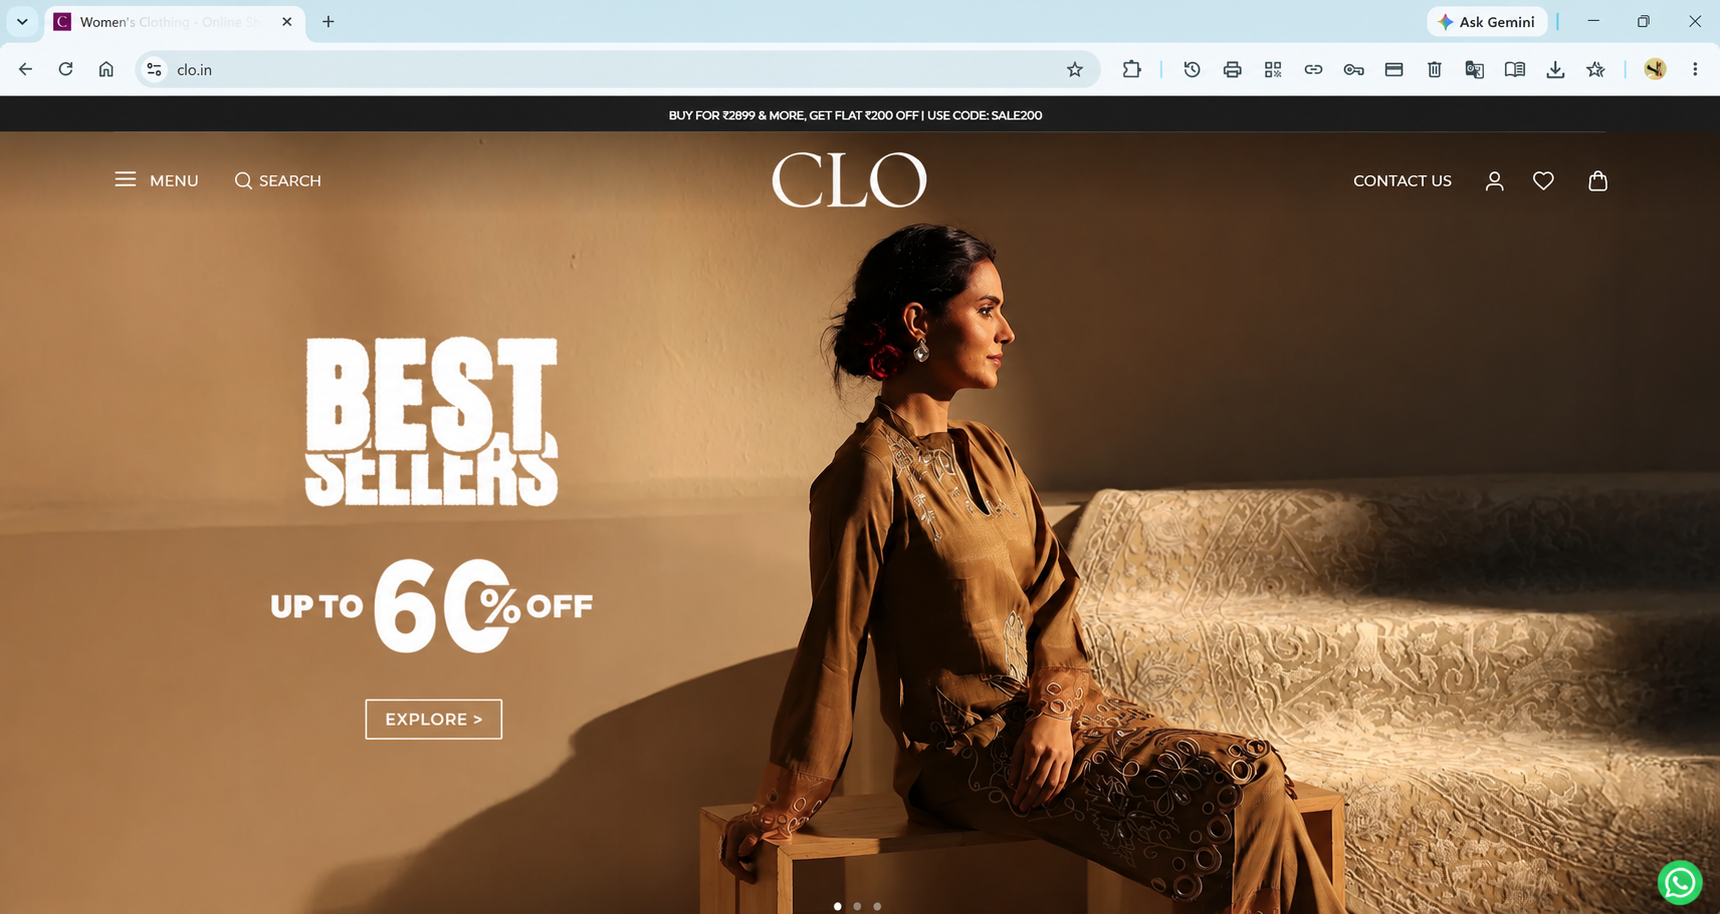
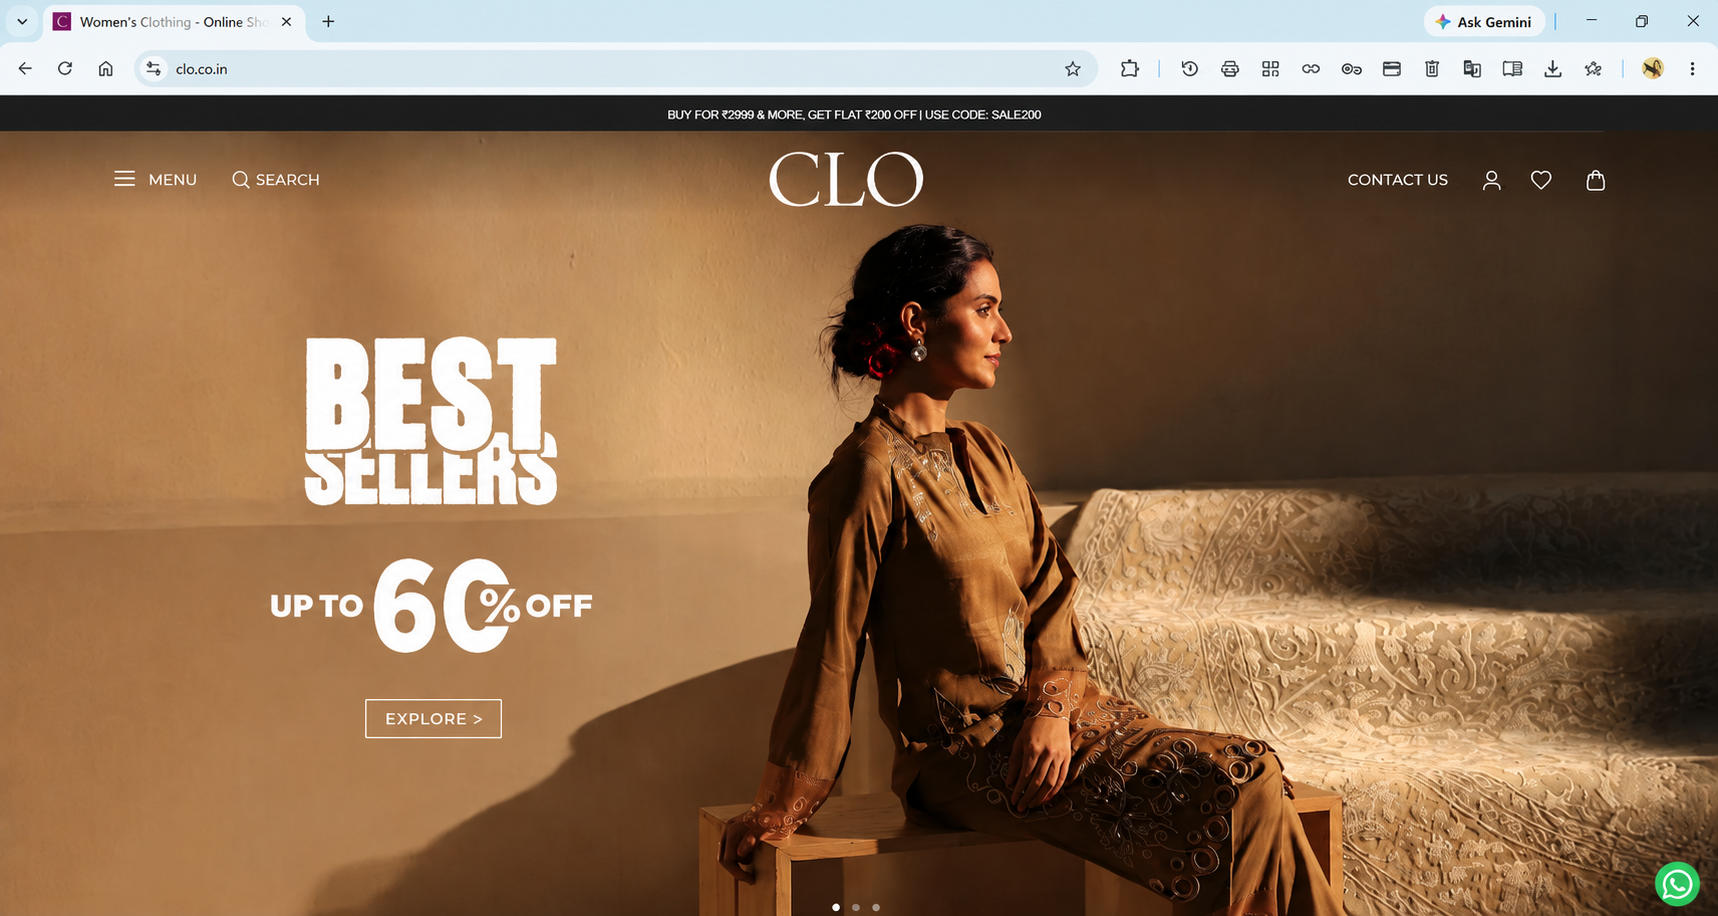
add Portfolio page with project showcase and stats section

diff --git a/src/pages/Portfolio.jsx b/src/pages/Portfolio.jsx
@@ -1,0 +1,175 @@
+import React from "react";
+import Navbar from "@/components/common/Navbar";
+import Footer from "@/components/common/Footer";
+import SEO from "@/components/common/SEO";
+import StatsSection from "@/components/common/StatsSection";
+import collegeDrishti from "@/assets/collegeDrishti.png";
+import onlinelpu from "@/assets/onlinelpu.png";
+import sholini from "@/assets/sholini.png";
+import manipaal from "@/assets/manipaal.png";
+import collegequestion from "@/assets/collegequestion.png";
+import clo from "@/assets/clo.png";
+
+const portfolios = [
+  {
+    id: 1,
+    title: "College Drishti",
+    image: collegeDrishti,
+
+    description:
+      "A smart college discovery platform that helps students explore, compare, and choose the right university with rankings, course details, and expert insights A smart college discovery platform that helps students explore, compare, and choose the right university with rankings, course details, and expert insights all in one place.",
+
+    website: "https://collegedrishti.com/",
+  },
+  {
+    id: 2,
+    title: " CLO Fashion Store",
+    image: clo,
+
+    description:
+      "A premium Indian clothing brand offering elegant ethnic and contemporary wear from silk co-ord sets to kurtas, crafted with quality fabrics and artistic prints.",
+
+    website: "https://clo.co.in/",
+  },
+
+  {
+    id: 3,
+    title: "Online LPU",
+    image: onlinelpu,
+    description:
+      "Online admission portal for LPU's distance & online degree programs MBA, MCA, BCA and more with UGC-approved, NAAC A++ accredited degrees starting at genuin Price.",
+
+    website: "https://onlinelpu.com/",
+  },
+  {
+    id: 4,
+    title: "Online MBA Study",
+    image: sholini,
+    description:
+      "Your guide to Shoolini University's online MBA & degree programs explore courses, fees, eligibility, and get free expert admission guidance for 2026.",
+
+    website: "https://onlinembastudy.com/",
+  },
+  {
+    id: 5,
+    title: "Online Manipal University Admission Portal",
+    image: manipaal,
+    description:
+      "Online admission platform for Manipal University's accredited degree programs explore MBA, MCA, and more with expert counseling and easy enrollment.",
+
+    website: "https://onlinembastudy.com/",
+  },
+  {
+    id: 6,
+    title: "College Question Online Degree Search Platform",
+    image: collegequestion,
+    description:
+      "India's go-to platform for discovering UGC-entitled online degree programs explore top universities, compare courses, and get expert guidance to find your perfect fit.",
+
+    website: "https://onlinembastudy.com/",
+  },
+];
+
+const Portfolio = () => {
+  return (
+    <div className="min-h-screen bg-background">
+      <SEO
+        title="Portfolio | Binazy"
+        description="Explore Binazy portfolio projects and digital solutions."
+        path="/portfolio"
+      />
+
+      <Navbar />
+
+      <main id="main-content" className="pt-16">
+        <section className="bg-[#0f2070] py-16 sm:py-20 lg:py-24">
+          <div className="mx-auto max-w-7xl px-4 text-white sm:px-6 lg:px-8">
+            <h1 className="mb-4 text-3xl font-bold leading-tight sm:text-5xl lg:text-6xl">
+              Our <span className="text-blue-400">Portfolio</span>
+            </h1>
+
+            <p className="max-w-3xl text-base leading-7 text-gray-200 sm:text-lg sm:leading-8">
+              Browse our portfolio of websites, mobile apps, and custom software
+              solutions built for startups, businesses, and enterprises
+              worldwide.
+            </p>
+          </div>
+        </section>
+
+        <section className="py-20 bg-slate-50">
+          <div className="max-w-7xl mx-auto px-6">
+            {/* Heading */}
+            <div className="text-center max-w-3xl mx-auto mb-14">
+              <h2 className="text-4xl md:text-5xl font-bold text-slate-900">
+                Real projects{" "}
+                <span className="text-blue-900">measurable results</span>
+              </h2>
+
+              <p className="mt-5 text-lg text-slate-600 leading-8">
+                See the challenges, solutions, and outcomes from products we
+                have built for clients and then start a similar project with our
+                team
+              </p>
+            </div>
+
+            {/* Cards */}
+            <div className="grid md:grid-cols-2 gap-8">
+              {portfolios.map((item) => (
+                <div
+                  key={item.id}
+                  className="bg-white/90 overflow-hidden border border-slate-200 ">
+                  <img
+                    src={item.image}
+                    alt={item.title}
+                    className="w-full h-72 object-cover"
+                  />
+
+                  <div className="p-7">
+                    <h3 className="text-3xl font-semibold text-blue-800 ">
+                      {item.title}
+                    </h3>
+
+                    <p className="mt-5 text-slate-600 leading-8">
+                      {item.description}
+                    </p>
+
+                    <div className="mt-8 flex gap-8">
+                      <a
+                        href={item.website}
+                        //for new tab open url
+                        target="_blank"
+                        rel="noopener noreferrer"
+                        className="font-medium text-blue-700 hover:text-blue-900 flex items-center gap-2">
+                        Visit site
+                        <svg
+                          xmlns="http://www.w3.org/2000/svg"
+                          className="w-5 h-5"
+                          fill="none"
+                          viewBox="0 0 24 24"
+                          stroke="currentColor"
+                          strokeWidth={2}>
+                          <path
+                            strokeLinecap="round"
+                            strokeLinejoin="round"
+                            d="M14 3h7v7m0-7L10 14m-4-7H3v14h14v-3"
+                          />
+                        </svg>
+                      </a>
+                    </div>
+                  </div>
+                </div>
+              ))}
+            </div>
+          </div>
+        </section>
+        <section>
+          <StatsSection />
+        </section>
+      </main>
+
+      <Footer />
+    </div>
+  );
+};
+
+export default Portfolio;

diff --git a/src/components/common/Navbar.jsx b/src/components/common/Navbar.jsx
@@ -40,7 +40,10 @@ const navLinks = [
   { label: "About", to: "/about" },
 ];
 
-const endLinks = [{ label: "Blog", to: "/blog" }];
+const endLinks = [
+  { label: "Portfolio", to: "/portfolio" },
+  { label: "Blog", to: "/blog" },
+];
 
 const dropdownOrder = ["services", "industries", "locations"];
 
@@ -105,9 +108,7 @@ const Navbar = () => {
             alt="Binazy Logo"
             className="w-10 h-10 rounded-full object-cover"
           />
-          <span className="text-lg font-semibold text-slate-900">
-            Binazy
-          </span>
+          <span className="text-lg font-semibold text-slate-900">Binazy</span>
         </Link>
 
         {/* Desktop Navigation */}
@@ -116,8 +117,7 @@ const Navbar = () => {
             <Link
               key={item.to}
               to={item.to}
-              className={desktopLinkClass(isActive(item.to))}
-            >
+              className={desktopLinkClass(isActive(item.to))}>
               {item.label}
             </Link>
           ))}
@@ -131,13 +131,11 @@ const Navbar = () => {
                 key={menuKey}
                 className="relative"
                 onMouseEnter={() => handleMouseEnter(menuKey)}
-                onMouseLeave={handleMouseLeave}
-              >
+                onMouseLeave={handleMouseLeave}>
                 <button
                   className={`${desktopLinkClass(
-                    isActive(menu.path)
-                  )} flex items-center gap-1`}
-                >
+                    isActive(menu.path),
+                  )} flex items-center gap-1`}>
                   {menu.label}
                   <ChevronDown
                     className={`w-4 h-4 transition ${
@@ -149,15 +147,11 @@ const Navbar = () => {
                 {isOpen && (
                   <div className="absolute top-full left-1/2 -translate-x-1/2 pt-4 z-50">
                     <div
-                      className={`${menu.desktopWidth} bg-white border border-slate-200 rounded-2xl p-2 shadow-2xl shadow-slate-950/15`}
-                    >
+                      className={`${menu.desktopWidth} bg-white border border-slate-200 rounded-2xl p-2 shadow-2xl shadow-slate-950/15`}>
                       <div
                         className={`space-y-1 ${
-                          menu.scrollable
-                            ? "max-h-[70vh] overflow-y-auto"
-                            : ""
-                        }`}
-                      >
+                          menu.scrollable ? "max-h-[70vh] overflow-y-auto" : ""
+                        }`}>
                         {menu.items.map((item) => (
                           <Link
                             key={item.id}
@@ -167,8 +161,7 @@ const Navbar = () => {
                               location.pathname === item.to
                                 ? "bg-brand-50 text-brand-700"
                                 : "text-slate-700 hover:bg-slate-50 hover:text-brand-700"
-                            }`}
-                          >
+                            }`}>
                             {item.title}
                           </Link>
                         ))}
@@ -184,8 +177,7 @@ const Navbar = () => {
             <Link
               key={item.to}
               to={item.to}
-              className={desktopLinkClass(isActive(item.to))}
-            >
+              className={desktopLinkClass(isActive(item.to))}>
               {item.label}
             </Link>
           ))}
@@ -194,8 +186,7 @@ const Navbar = () => {
         {/* Desktop Button */}
         <Link
           to="/contact-us"
-          className="hidden lg:inline-flex items-center justify-center h-11 px-5 rounded-xl bg-brand-600 text-white text-sm font-medium hover:bg-brand-700 transition"
-        >
+          className="hidden lg:inline-flex items-center justify-center h-11 px-5 rounded-xl bg-brand-600 text-white text-sm font-medium hover:bg-brand-700 transition">
           Connect With Us
         </Link>
 
@@ -203,8 +194,7 @@ const Navbar = () => {
         <button
           className="lg:hidden p-2 rounded-lg hover:bg-brand-50"
           onClick={() => setMobileOpen((prev) => !prev)}
-          aria-label={mobileOpen ? "Close menu" : "Open menu"}
-        >
+          aria-label={mobileOpen ? "Close menu" : "Open menu"}>
           {mobileOpen ? <X size={24} /> : <Menu size={24} />}
         </button>
       </div>
@@ -222,8 +212,7 @@ const Navbar = () => {
                   isActive(item.to)
                     ? "font-medium text-brand-700"
                     : "text-slate-700"
-                }`}
-              >
+                }`}>
                 {item.label}
               </Link>
             ))}
@@ -236,10 +225,7 @@ const Navbar = () => {
                 <div key={menuKey}>
                   <button
                     className="w-full flex items-center justify-between py-2 text-sm text-slate-700"
-                    onClick={() =>
-                      setMobileDropdown(isOpen ? null : menuKey)
-                    }
-                  >
+                    onClick={() => setMobileDropdown(isOpen ? null : menuKey)}>
                     {menu.label}
                     <ChevronDown
                       className={`w-4 h-4 transition ${
@@ -255,8 +241,7 @@ const Navbar = () => {
                           key={item.id}
                           to={item.to}
                           onClick={closeAllMenus}
-                          className="block py-1.5 text-sm text-slate-600"
-                        >
+                          className="block py-1.5 text-sm text-slate-600">
                           {item.title}
                         </Link>
                       ))}
@@ -269,8 +254,7 @@ const Navbar = () => {
             <Link
               to="/contact-us"
               onClick={closeAllMenus}
-              className="block py-2 text-sm font-medium text-brand-600"
-            >
+              className="block py-2 text-sm font-medium text-brand-600">
               Contact Us
             </Link>
           </div>

diff --git a/src/components/common/StatsSection.jsx b/src/components/common/StatsSection.jsx
@@ -20,23 +20,23 @@ const StatsSection = () => {
   ];
 
   return (
-    <section className="section-padding bg-brand-600">
+    <section className="bg-brand-600 py-10 sm:py-12 lg:py-14">
       <div className="section-container">
-        <div className="grid grid-cols-1 md:grid-cols-3 gap-4 sm:gap-6 lg:gap-12">
+        <div className="grid grid-cols-1 md:grid-cols-3 gap-3 sm:gap-4 lg:gap-6">
           {stats.map((item, index) => (
             <div
               key={index}
-              className="relative overflow-hidden rounded-2xl p-6 sm:p-8 lg:p-10 group">
+              className="relative overflow-hidden rounded-xl p-4 sm:p-5 lg:p-6 group">
               {/* Decorative Accent */}
 
               <div className="relative z-10">
-                <span className="text-6xl sm:text-7xl lg:text-9xl font-bold text-white/80 mb-4 sm:mb-6 block">
+                <span className="text-4xl sm:text-5xl lg:text-6xl font-bold text-white/80 mb-2 sm:mb-3 block">
                   {item.number}
                 </span>
-                <h4 className="text-xl lg:text-2xl font-bold text-white/90 mb-3 sm:mb-4 uppercase tracking-wider">
+                <h4 className="text-base sm:text-lg lg:text-xl font-bold text-white/90 mb-2 uppercase tracking-wide">
                   {item.label}
                 </h4>
-                <p className="text-white/90 text-base sm:text-lg lg:text-xl leading-relaxed">
+                <p className="text-white/90 text-sm sm:text-base leading-relaxed">
                   {item.desc}
                 </p>
               </div>

diff --git a/src/App.jsx b/src/App.jsx
@@ -10,6 +10,7 @@ import IndustryDetailsPage from "@/pages/industries/IndustryDetailsPage";
 import LocationDetailsPage from "@/pages/locations/LocationDetailPage";
 import BlogPage from "@/pages/blog/BlogPage";
 import BlogDetailsPage from "@/pages/blog/BlogDetailsPage";
+import Portfolio from "@/pages/Portfolio";
 import ScrollToTop from "@/components/ScrollToTop";
 import WhatsappButton from "@/components/WhatsappButton";
 import CallButton from "@/components/CallButton";
@@ -27,6 +28,7 @@ const App = () => {
         <Route path="/about" element={<About />} />
         <Route path="/contact-us" element={<ContactPage />} />
         <Route path="/submitSuccess" element={<SubmitSuccess />} />
+        <Route path="/portfolio" element={<Portfolio />} />
         <Route path="/blog" element={<BlogPage />} />
         <Route path="/blog/:blogId" element={<BlogDetailsPage />} />
         <Route path="/services/:serviceId" element={<ServiceDetailsPage />} />